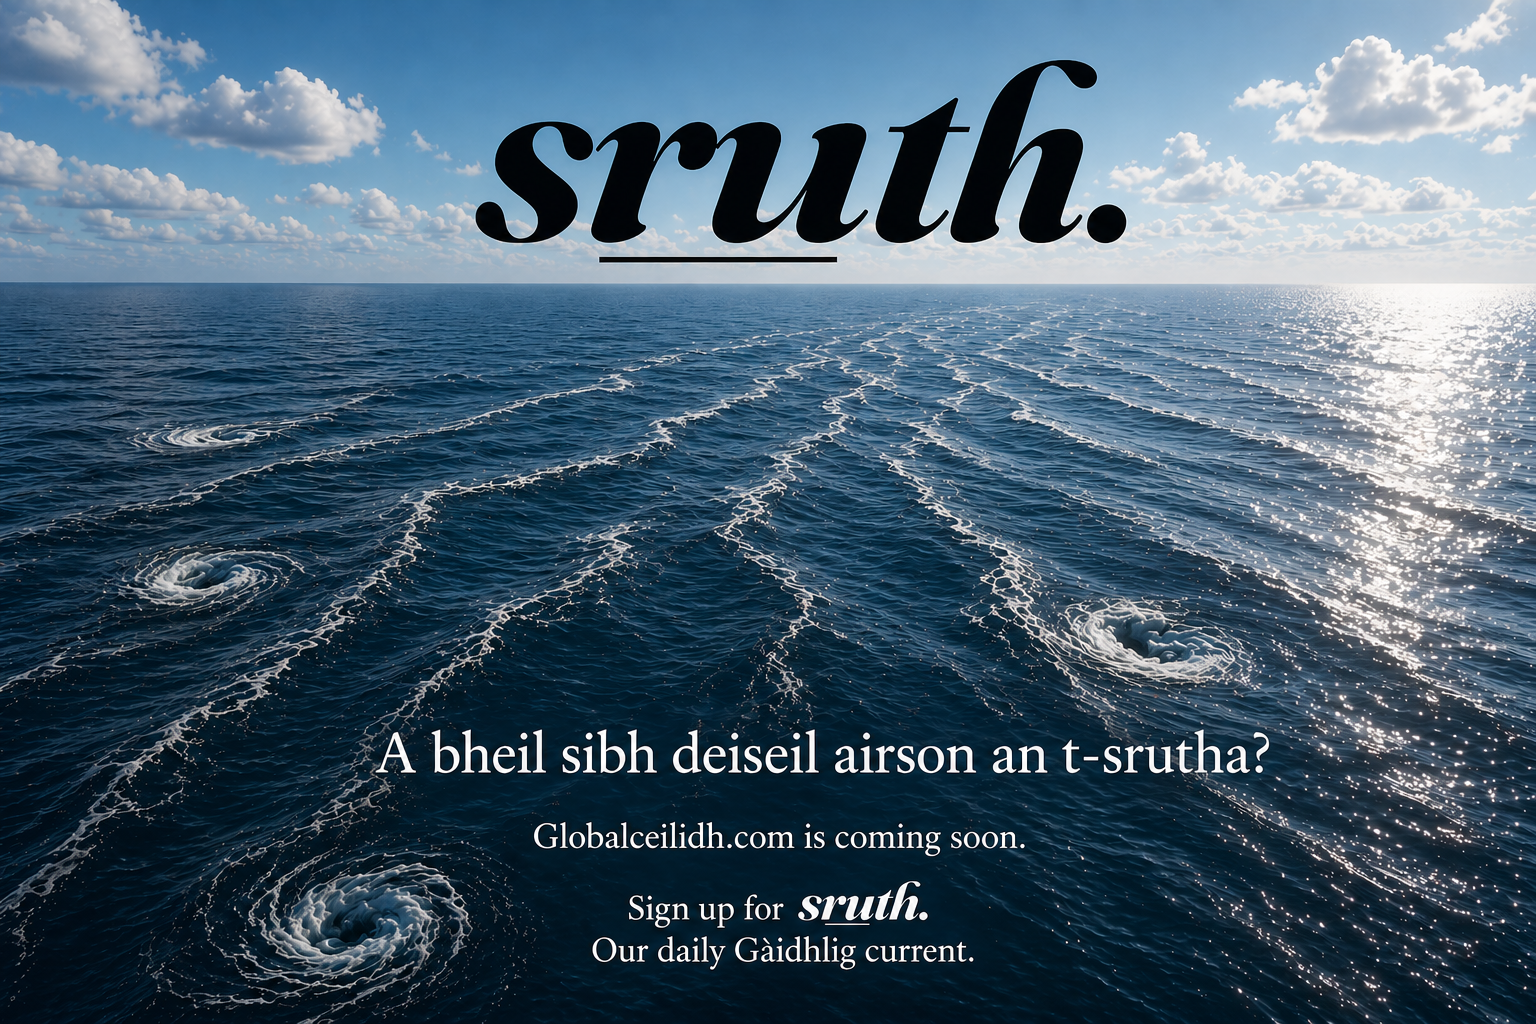
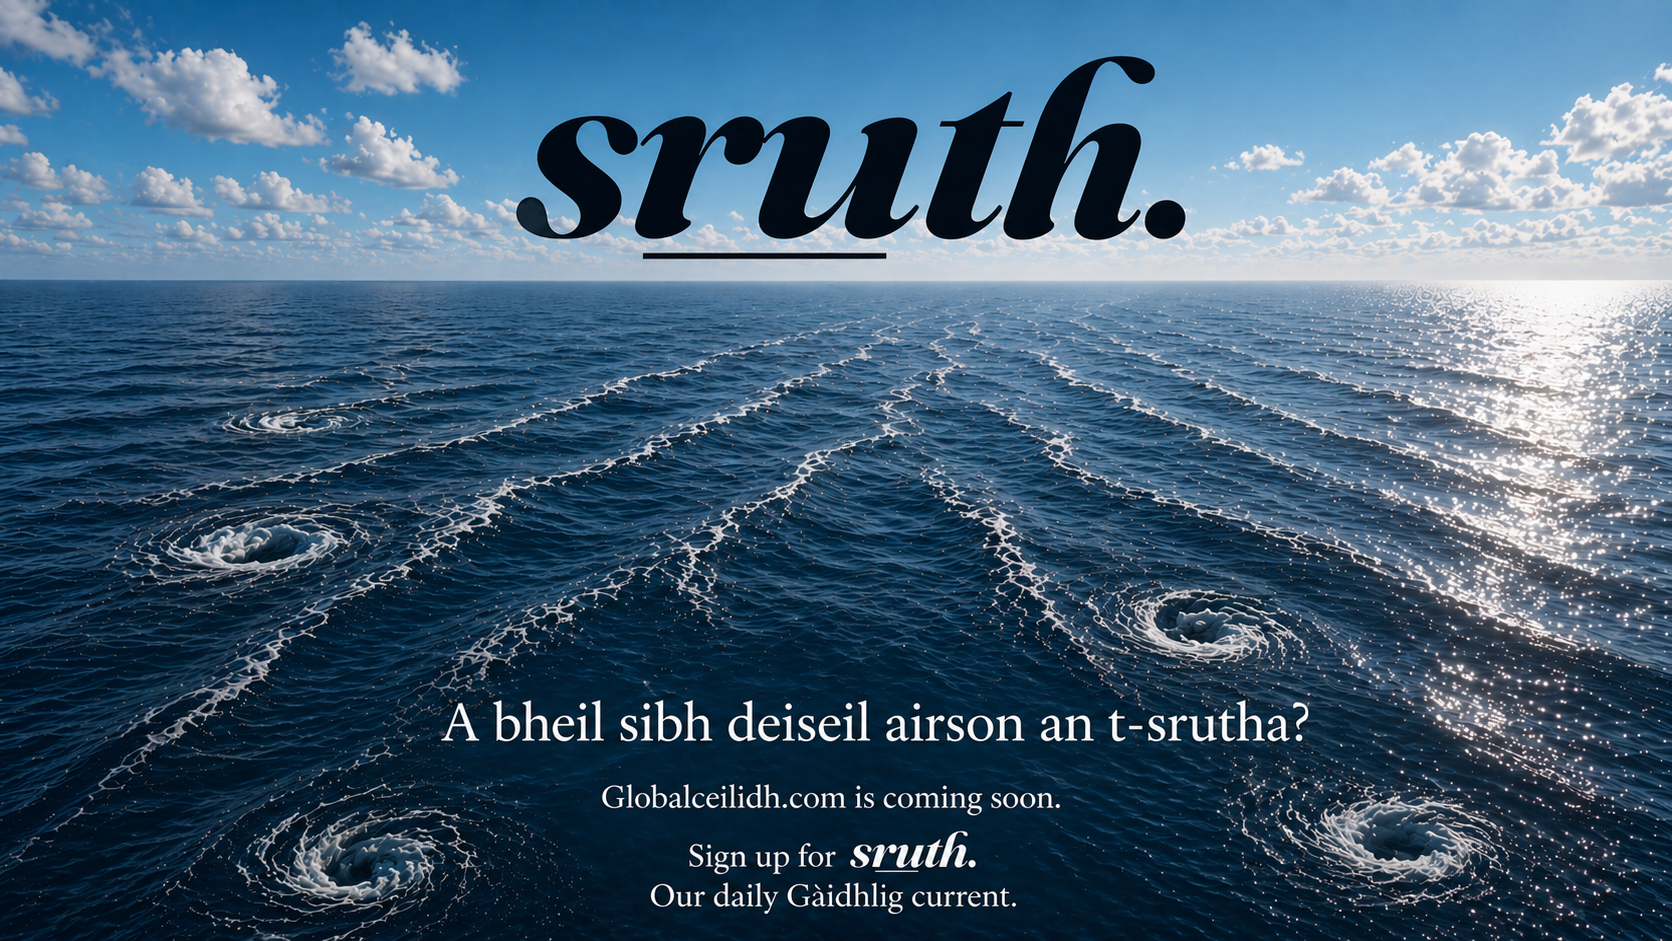
Update coming soon and sruth signup pages with new graphics and working email form

diff --git a/app/sruth/page.js b/app/sruth/page.js
@@ -1,4 +1,31 @@
+'use client';
+
+import { useState } from 'react';
+
 export default function SruthSignup() {
+  const [email, setEmail] = useState('');
+  const [status, setStatus] = useState('idle'); // idle | loading | success | error
+
+  async function handleSubmit(e) {
+    e.preventDefault();
+    if (!email) return;
+    setStatus('loading');
+    try {
+      const res = await fetch('/api/subscribe', {
+        method: 'POST',
+        headers: { 'Content-Type': 'application/json' },
+        body: JSON.stringify({ email }),
+      });
+      if (res.ok) {
+        setStatus('success');
+      } else {
+        setStatus('error');
+      }
+    } catch {
+      setStatus('error');
+    }
+  }
+
   return (
     <div style={{
       position: 'fixed',
@@ -8,17 +35,96 @@ export default function SruthSignup() {
       alignItems: 'center',
       justifyContent: 'center',
     }}>
-      <img
-        src="/sruth_sign_up.png"
-        alt="sruth. — Sign up"
-        style={{
-          width: '100%',
-          height: '100%',
-          objectFit: 'contain',
-          objectPosition: 'center center',
-          display: 'block',
-        }}
-      />
+      <div style={{ position: 'relative', width: '100%', height: '100%' }}>
+        <img
+          src="/sruth_sign_up_2.png"
+          alt="sruth. — Sign up"
+          style={{
+            width: '100%',
+            height: '100%',
+            objectFit: 'contain',
+            objectPosition: 'center center',
+            display: 'block',
+          }}
+        />
+
+        {/* Email form — positioned over the dashed placeholder rectangle */}
+        <div style={{
+          position: 'absolute',
+          top: '57%',
+          left: '50%',
+          transform: 'translateX(-50%)',
+          width: '52%',
+          display: 'flex',
+          flexDirection: 'column',
+          alignItems: 'center',
+          gap: '10px',
+        }}>
+          {status === 'success' ? (
+            <p style={{
+              color: '#fff',
+              fontFamily: 'Georgia, serif',
+              fontSize: 'clamp(14px, 1.8vw, 20px)',
+              textAlign: 'center',
+              letterSpacing: '0.02em',
+            }}>
+              You&apos;re in the current. Watch your inbox.
+            </p>
+          ) : (
+            <form onSubmit={handleSubmit} style={{
+              display: 'flex',
+              width: '100%',
+              gap: '8px',
+            }}>
+              <input
+                type="email"
+                value={email}
+                onChange={e => setEmail(e.target.value)}
+                placeholder="your@email.com"
+                required
+                style={{
+                  flex: 1,
+                  padding: '10px 14px',
+                  fontSize: 'clamp(13px, 1.4vw, 17px)',
+                  fontFamily: 'Georgia, serif',
+                  border: 'none',
+                  borderRadius: '4px',
+                  backgroundColor: 'rgba(255,255,255,0.92)',
+                  color: '#111',
+                  outline: 'none',
+                }}
+              />
+              <button
+                type="submit"
+                disabled={status === 'loading'}
+                style={{
+                  padding: '10px 20px',
+                  fontSize: 'clamp(13px, 1.4vw, 17px)',
+                  fontFamily: 'Georgia, serif',
+                  backgroundColor: '#1a1a1a',
+                  color: '#fff',
+                  border: 'none',
+                  borderRadius: '4px',
+                  cursor: status === 'loading' ? 'wait' : 'pointer',
+                  whiteSpace: 'nowrap',
+                }}
+              >
+                {status === 'loading' ? '...' : 'Join'}
+              </button>
+            </form>
+          )}
+          {status === 'error' && (
+            <p style={{
+              color: '#ff6b6b',
+              fontSize: 'clamp(11px, 1.2vw, 14px)',
+              fontFamily: 'Georgia, serif',
+              margin: 0,
+            }}>
+              Something went wrong — try again.
+            </p>
+          )}
+        </div>
+      </div>
     </div>
   );
 }

diff --git a/app/page.js b/app/page.js
@@ -17,7 +17,7 @@ export default function ComingSoon() {
     }}>
       <div style={{ position: 'relative', width: '100%', height: '100%' }}>
         <img
-          src="/GC-Comingsoon_1.png"
+          src="/GC-Comingsoon_2.png"
           alt="sruth. — GlobalCeilidh is coming soon"
           style={{
             width: '100%',
@@ -28,12 +28,12 @@ export default function ComingSoon() {
           }}
         />
 
-        {/* Hotspot: large "sruth." wordmark at top */}
+        {/* Hotspot: "sruth." wordmark at top */}
         <a href="/sruth" onClick={goToSruth} aria-label="Sign up for sruth."
           style={{
             position: 'absolute',
-            top: '3%', left: '20%',
-            width: '60%', height: '20%',
+            top: '2%', left: '25%',
+            width: '50%', height: '18%',
             display: 'block', cursor: 'pointer',
           }}
         />
@@ -42,18 +42,18 @@ export default function ComingSoon() {
         <a href="/sruth" onClick={goToSruth} aria-label="Sign up for sruth."
           style={{
             position: 'absolute',
-            top: '64%', left: '62%',
-            width: '24%', height: '8%',
+            top: '62%', left: '55%',
+            width: '22%', height: '7%',
             display: 'block', cursor: 'pointer',
           }}
         />
 
-        {/* Hotspot: "sruth." in "Sign up for sruth." at bottom */}
+        {/* Hotspot: "sruth." in "Sign up for sruth." */}
         <a href="/sruth" onClick={goToSruth} aria-label="Sign up for sruth."
           style={{
             position: 'absolute',
-            top: '81%', left: '50%',
-            width: '18%', height: '6%',
+            top: '73%', left: '48%',
+            width: '16%', height: '6%',
             display: 'block', cursor: 'pointer',
           }}
         />
